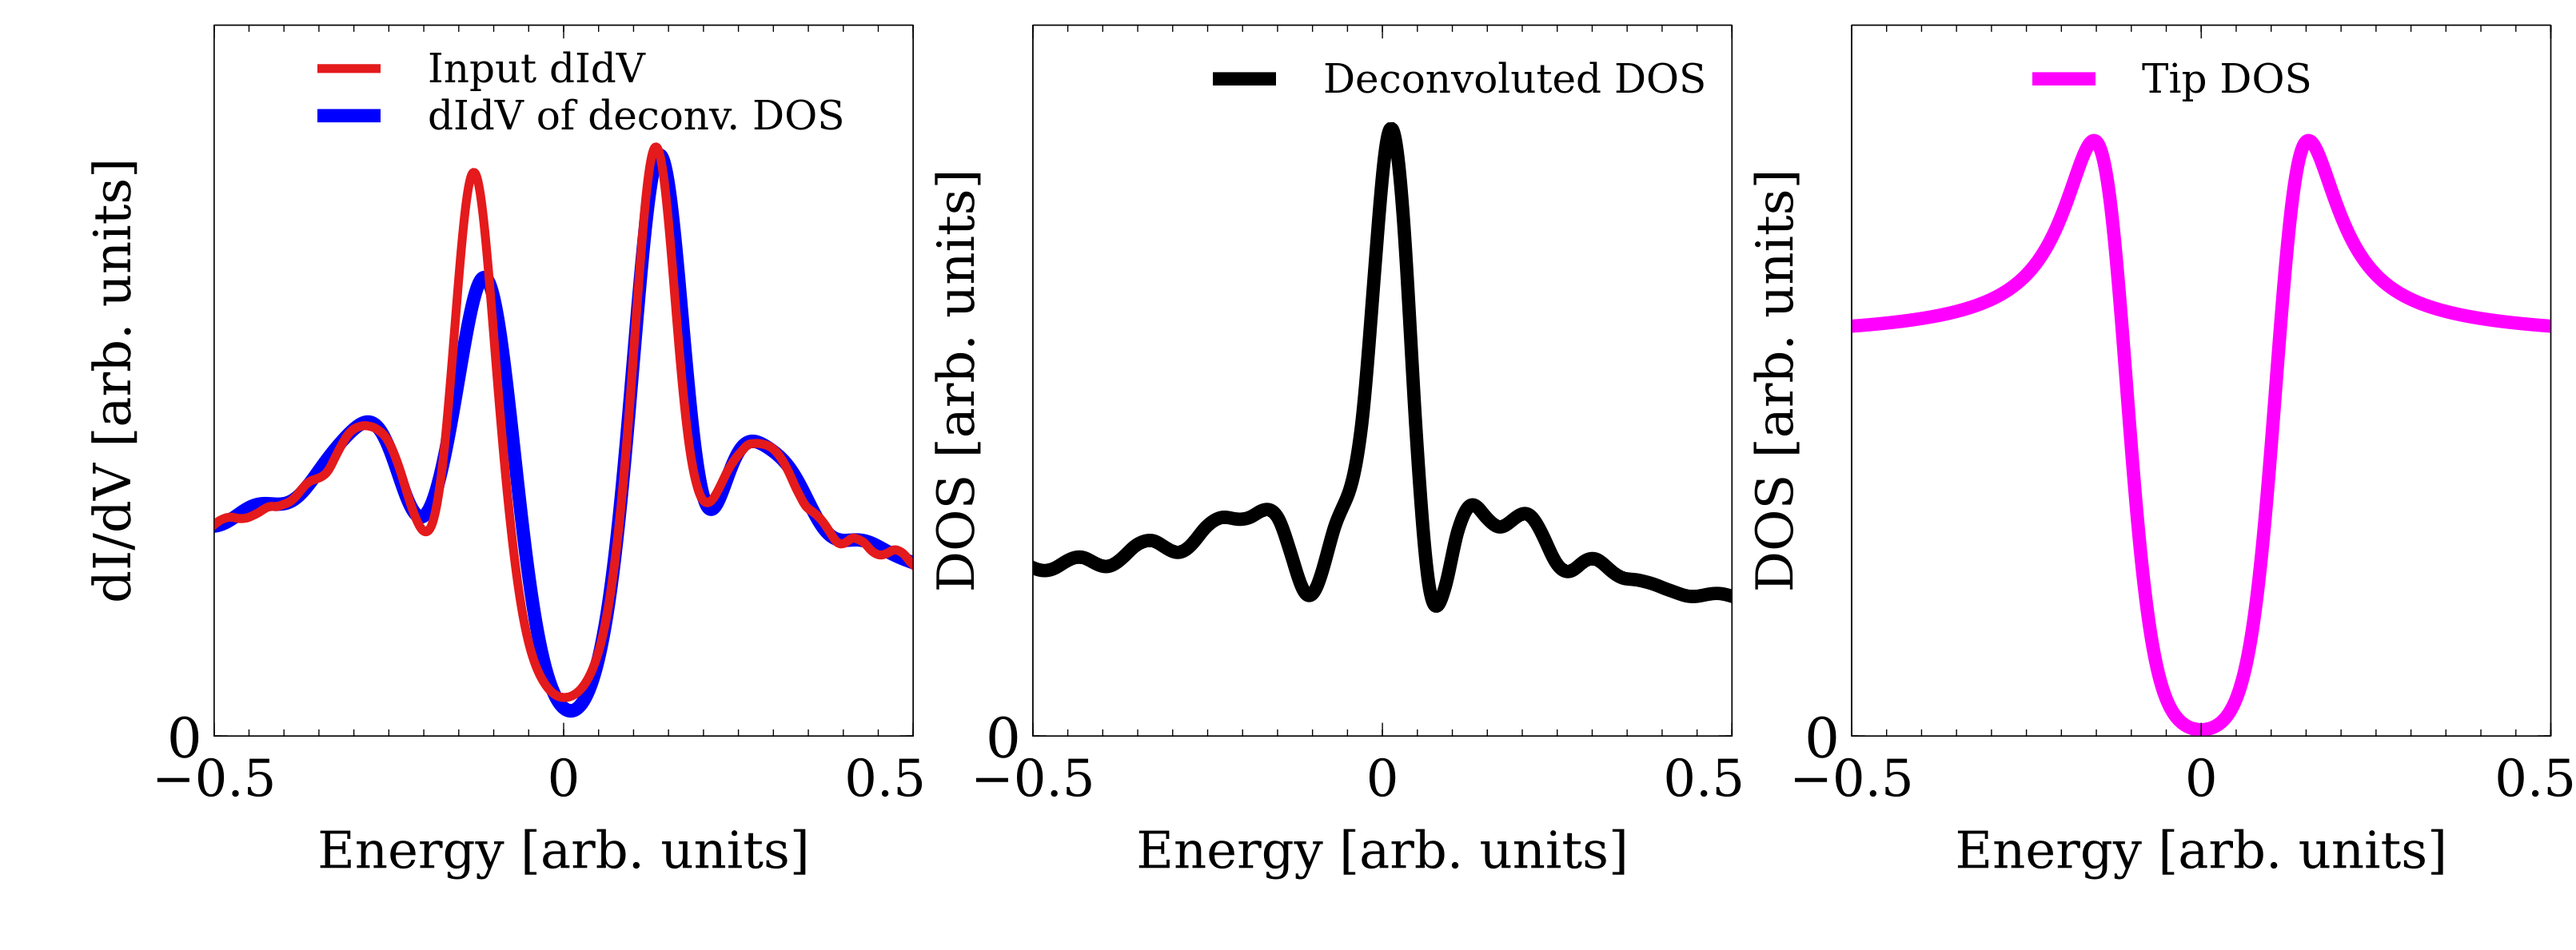
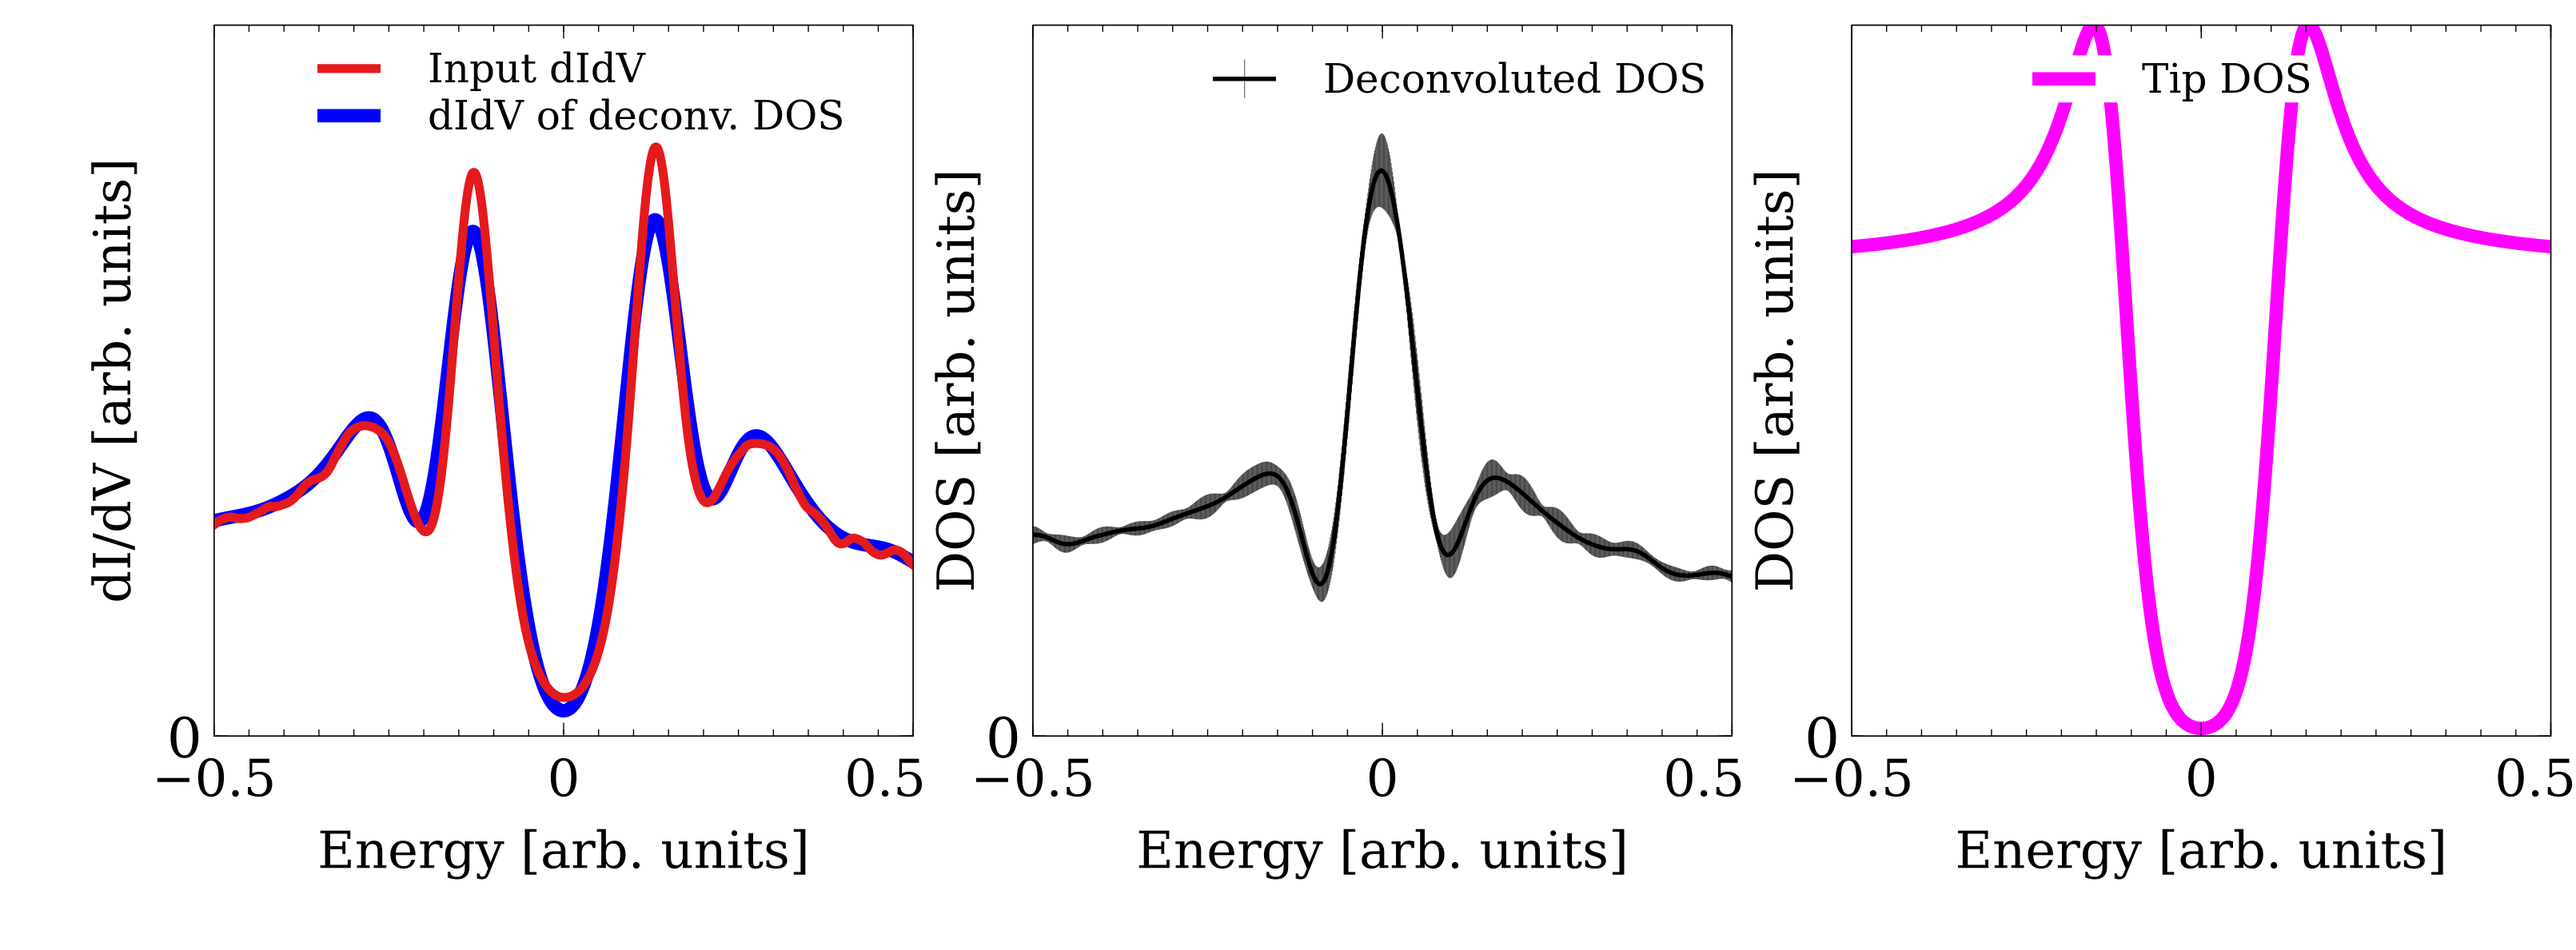
Update

diff --git a/src/stmdeconvpy/deconvolve.py b/src/stmdeconvpy/deconvolve.py
@@ -5,19 +5,31 @@ from scipy.interpolate import interp1d
 from scipy.optimize import minimize,anderson
 
 
-def best_deconvolve(x1,yexp,x2,ytip,ntries=4,**kwargs):
+def best_deconvolve(x1,yexp,x2,ytip,ntries=4,return_error=False,
+        **kwargs):
     """Return the best deconvolution"""
-    def f():
-        return deconvolve(x1,yexp,x2,ytip,return_error=True,**kwargs)
-    (x0,y0,e0) = f() # do it once
+    def f(sol):
+        return deconvolve(x1,yexp,x2,ytip,sol=sol,return_error=True,**kwargs)
+    # random initial guesses
+    sols = [np.random.random(x1.shape) for i in range(ntries)]
+    from . import parallel
+    parallel.cores = min([parallel.maxcpu,ntries]) # number of cores
+    # compute everything
+    outs = parallel.pcall(f,sols)
+    (x0,y0,e0) = outs[0] # do it once
     for i in range(ntries-1): # loop
-        (x,y,e) = f() # perform the minimization
+        (x,y,e) = outs[i] # perform the minimization
         if e<e0:
             e0 = e 
             x0 = x
             y0 = y
+    ys = np.array([outs[i][1] for i in range(ntries)]) # get the fits
+    es = np.array([outs[i][2] for i in range(ntries)]) # get the errors
+    dy = np.sqrt(np.var(ys,axis=0)) # compute variance
+    y0 = np.average(ys,axis=0,weights=1./es) # compute weighted average
     print("Best deconvolution out of",ntries,"has error",e0)
-    return (x0,y0)
+    if return_error: return (x0,y0,dy)
+    else: return (x0,y0)
 
 
 
@@ -31,7 +43,7 @@ def deconvolve(x1,yexp,x2,ytip,ns=None,return_error=False,
     for ni in ns:
       (x,sol,error) = single_deconvolve(x1,yexp,x2,ytip,n=ni,sol=sol,
               return_error=True,**kwargs)
-#      if sgfilter: sol = smoothen(sol)
+      if sgfilter: sol = smoothen(sol) # smoothen the solution
     print("Error in this minimization",error)
     if return_error: return x,sol,error
     else: return x,sol
@@ -71,10 +83,14 @@ def single_deconvolve(x1,yexp,x2,ytip,n=41,fd=None,sol=None,
         return diff
     def f(y):
         dd = fdiff(y)
-        error = np.mean(np.abs(dd)) # compute the error
+        # compute the error
+        error = np.abs(dd) #+ np.mean(np.abs(np.diff(dd))) 
+#        dmax = np.max(dd) # maximum error
+        error = np.sqrt(np.mean(error**2)) # define error
+        error = np.mean(np.abs(dd)) #+ np.mean(np.abs(np.diff(dd))) 
         if print_error: print(error)
         return error
-    bounds = [(0,1) for ix in xs]
+    bounds = [(0,10) for ix in xs]
     if sol is None: x0 = np.random.random(len(xs))
     #derivative(xs,yexpn) # default try
     else: x0 = interpolate(x1,sol)(xs)

diff --git a/main/main.py b/main/main.py
@@ -15,10 +15,11 @@ parser.add_argument("--input",default="data.cur",help='Input file with the data'
 parser.add_argument("--output",default="DECONVOLUTED_DOS.OUT",help='Output file with the deconvolved DOS')
 parser.add_argument("--tip_output",default="TIP_DOS.OUT",help='Output file with the DOS of the tip (including temperature)')
 parser.add_argument("--dIdV_output",default="dIdV_OUTPUT.OUT",help='Output file with the resulting dIdV obtained assuming the deconvoluted DOS')
-parser.add_argument("--dIdV_input",default="dIdV_INPUT.OUT",help='Input file with the dIdV sfter it was preprocessed')
+parser.add_argument("--dIdV_input",default="dIdV_INPUT.OUT",help='Input file with the dIdV after it was preprocessed')
 parser.add_argument("--delta",default=0.12,help='Superconducting gap of the tip')
 parser.add_argument("--T",default=0.02,help='Temperature of the tip')
 parser.add_argument("--ntries",default=4,help='Take the best out of ntries minimizations')
+parser.add_argument("--maxn",default=100,help='Maximum number of grid points used in the deconvolution, increase it for higher accuracy')
 args = parser.parse_args()
 
 print("Reading data from ",args.input)
@@ -63,16 +64,17 @@ np.savetxt(args.tip_output,np.array([V,dos_tip]).T)
 ############# You do not need to change anything else ###############
 #####################################################################
 
-
+maxn = int(args.maxn) # points in the deconvolution
 
 import matplotlib.pyplot as plt
 
 # deconvolve the signal
-xn,dos_sur_dc = deconvolve.deconvolve_I(V,I_exp,V,dos_tip,sol=None,
+xn,dos_sur_dc,error = deconvolve.deconvolve_I(V,I_exp,V,dos_tip,
+        return_error = True,n=maxn,
         ntries=int(args.ntries),print_error=False,T=T)
 
 # write the surface DOS
-np.savetxt(args.output,np.array([xn,dos_sur_dc]).T)
+np.savetxt(args.output,np.array([xn,dos_sur_dc,error]).T)
 print("Surface DOS written to ",args.output)
 
 (V,I_exp2) = deconvolve.dos2I(V,dos_sur_dc,V,dos_tip,T=T)

diff --git a/src/stmdeconvpy/parallel.py b/src/stmdeconvpy/parallel.py
@@ -1,0 +1,63 @@
+# routines to call a function in parallel
+from __future__ import print_function
+import scipy.linalg as lg
+import os
+try:
+  from multiprocess import Pool
+  import multiprocess
+  maxcpu = multiprocess.cpu_count()
+except:
+    print("Multiprocess not working")
+    def Pool(n=1): # workaround
+            class mpool():
+                def map(self,f,xs):
+                  return [f(x) for x in xs]
+                def terminate(self): return None # dummy function
+            return mpool()
+    maxcpu = 1 # maximum number of cpus
+
+cores = 1 # call in a single by default
+
+
+def set_cores(n=1):
+    global cores
+    cores = n
+
+
+
+def multicall(fs):
+    """
+    Execute several independent functions
+    """
+    def ff(i):
+        return fs[i]() # execute that function
+    return pcall(ff,range(len(fs)))
+
+
+
+def pcall_serial(fun,args):
+  """Function to call in serial"""
+  return [fun(a) for a in args]
+
+
+
+def pcall_mp(fun,args,cores=cores):
+    """Calls a function for every input in args"""
+    mainpool = Pool(cores) # create pool
+    out = mainpool.map(fun,args) # return list
+    mainpool.terminate()
+    del mainpool # delete pool
+    return out
+
+
+
+def pcall(fun,args): # define the function
+  path = os.getcwd() # get the current directory
+  global cores
+  if cores==1: 
+      out = pcall_serial(fun,args) # one core, simply iterate
+  else: 
+      out = pcall_mp(fun,args,cores=cores) # call in parallel
+  os.chdir(path) # go to the original path
+  return out # return outputs
+

diff --git a/src/stmdeconvpy/profiles.py b/src/stmdeconvpy/profiles.py
@@ -62,7 +62,7 @@ def derivative(x,y):
 
 
 from scipy.interpolate import interp1d
-def interpolate(x,y,mode="linear"):
+def interpolate(x,y,mode="cubic"):
     f = interp1d(x,y,fill_value=(y[0],y[len(y)-1]),
             bounds_error=False,kind=mode)
     return f
